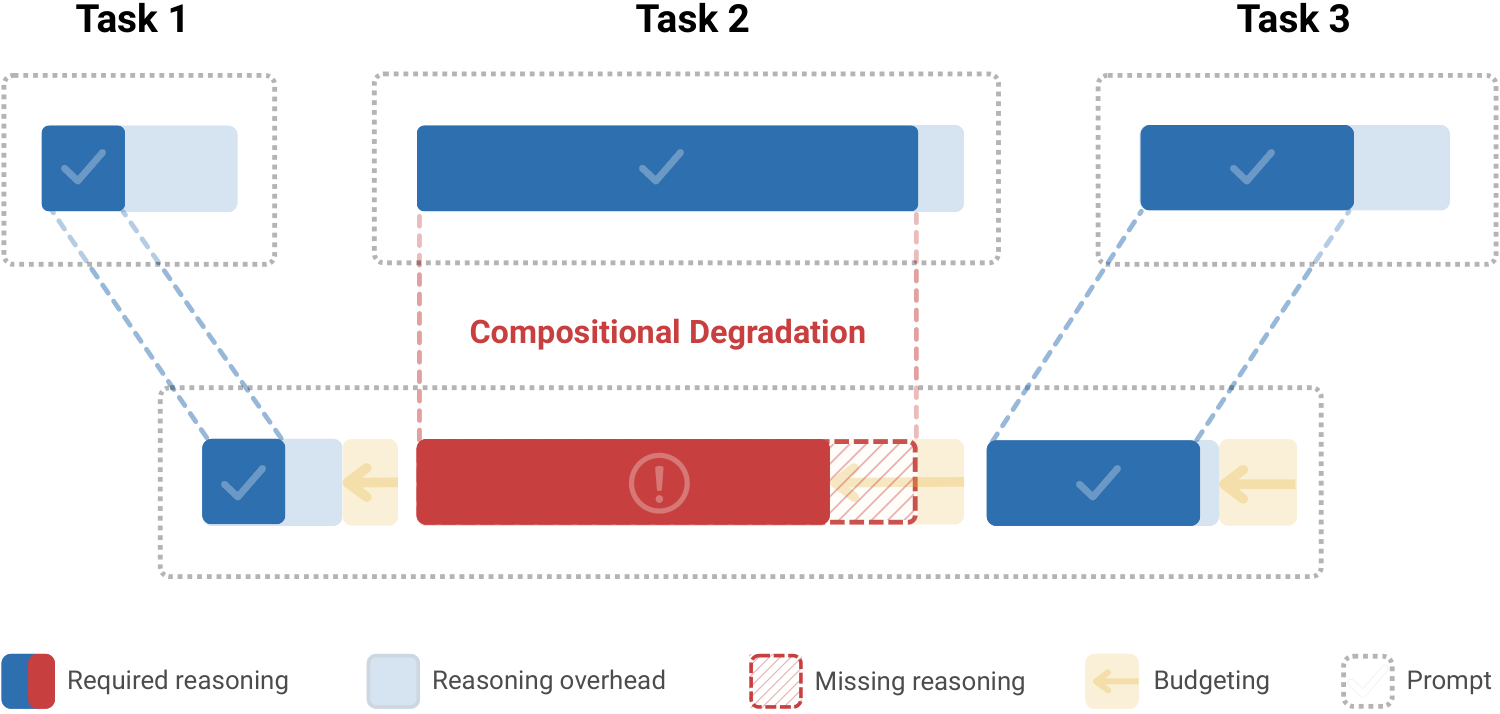
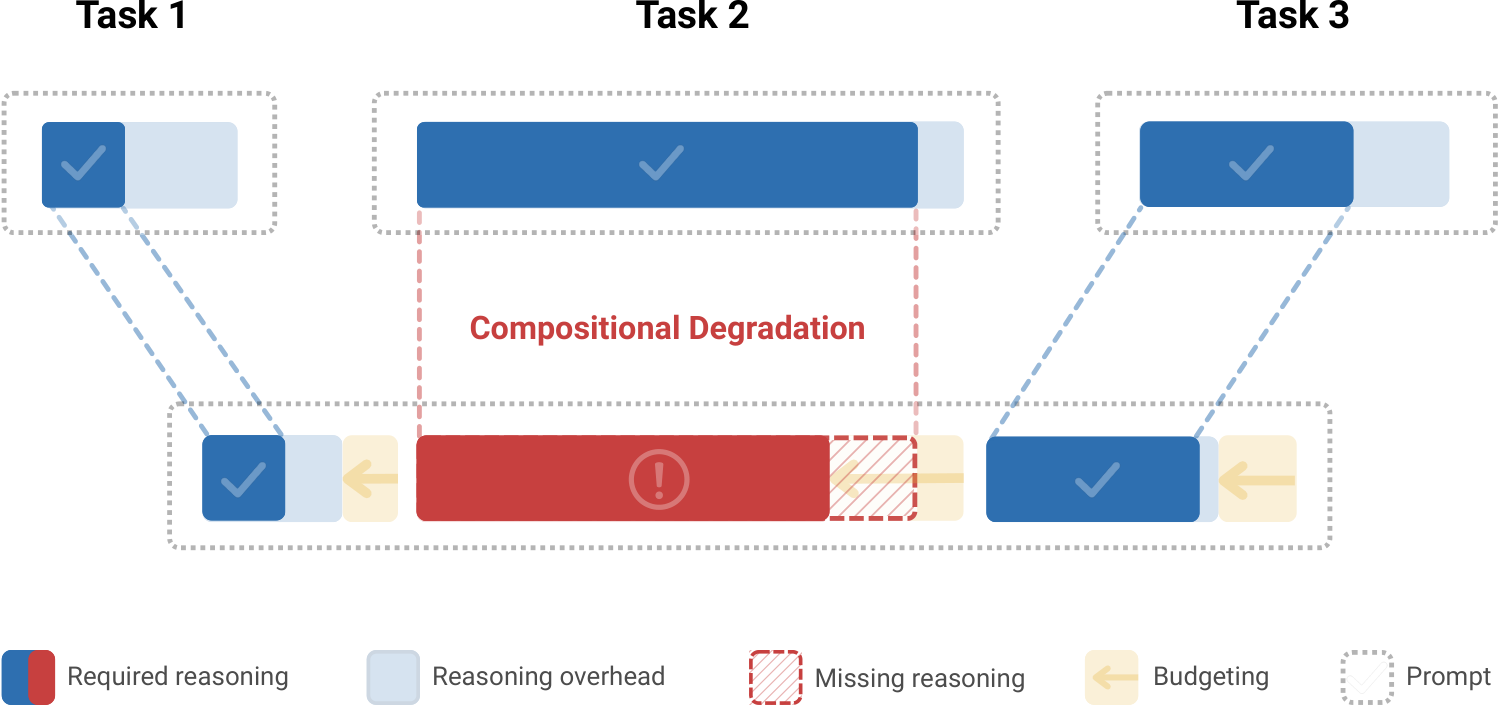
Use the revised Figure 1 from the arXiv paper on the fragility page

diff --git a/fragility/index.html b/fragility/index.html
@@ -353,7 +353,7 @@ body[data-focus="low"] [data-g]:not([data-g="low"]) { opacity: 0.16 !important; 
     </nav>
   </header>
   <figure class="teaser" id="fig0">
-    <img src="assets/paper-figure1.png" alt="Three tasks solved alone each get more reasoning than they need. Composed into one prompt, every task's reasoning shrinks by the same factor; tasks 1 and 3 still clear their requirement, while task 2, which needs long reasoning, falls below it and fails." width="1500" height="714">
+    <img src="assets/paper-figure1.png" alt="Three tasks solved alone each get more reasoning than they need. Composed into one prompt, every task's reasoning shrinks by the same factor; tasks 1 and 3 still clear their requirement, while task 2, which needs long reasoning, falls below it and fails." width="1500" height="707">
   </figure>
   <p class="tldr"><span class="tl">TL;DR:</span> When prompts are composed of many tasks, language models systematically <mark class="mk-y">reduce their reasoning effort across tasks according to a power law</mark>, causing <mark class="mk-r">failures</mark> on those that require more effort. By adjusting task grouping based on <b>task fragility</b>, we can <mark class="mk-b">save 43% of tokens without degrading accuracy</mark>.</p>
   <div class="rule" aria-hidden="true"></div>

diff --git a/fragility/src/page.html b/fragility/src/page.html
@@ -340,7 +340,7 @@ body[data-focus="low"] [data-g]:not([data-g="low"]) { opacity: 0.16 !important; 
     </nav>
   </header>
   <figure class="teaser" id="fig0">
-    <img src="assets/paper-figure1.png" alt="Three tasks solved alone each get more reasoning than they need. Composed into one prompt, every task's reasoning shrinks by the same factor; tasks 1 and 3 still clear their requirement, while task 2, which needs long reasoning, falls below it and fails." width="1500" height="714">
+    <img src="assets/paper-figure1.png" alt="Three tasks solved alone each get more reasoning than they need. Composed into one prompt, every task's reasoning shrinks by the same factor; tasks 1 and 3 still clear their requirement, while task 2, which needs long reasoning, falls below it and fails." width="1500" height="707">
   </figure>
   <p class="tldr"><span class="tl">TL;DR:</span> When prompts are composed of many tasks, language models systematically <mark class="mk-y">reduce their reasoning effort across tasks according to a power law</mark>, causing <mark class="mk-r">failures</mark> on those that require more effort. By adjusting task grouping based on <b>task fragility</b>, we can <mark class="mk-b">save 43% of tokens without degrading accuracy</mark>.</p>
   <div class="rule" aria-hidden="true"></div>
